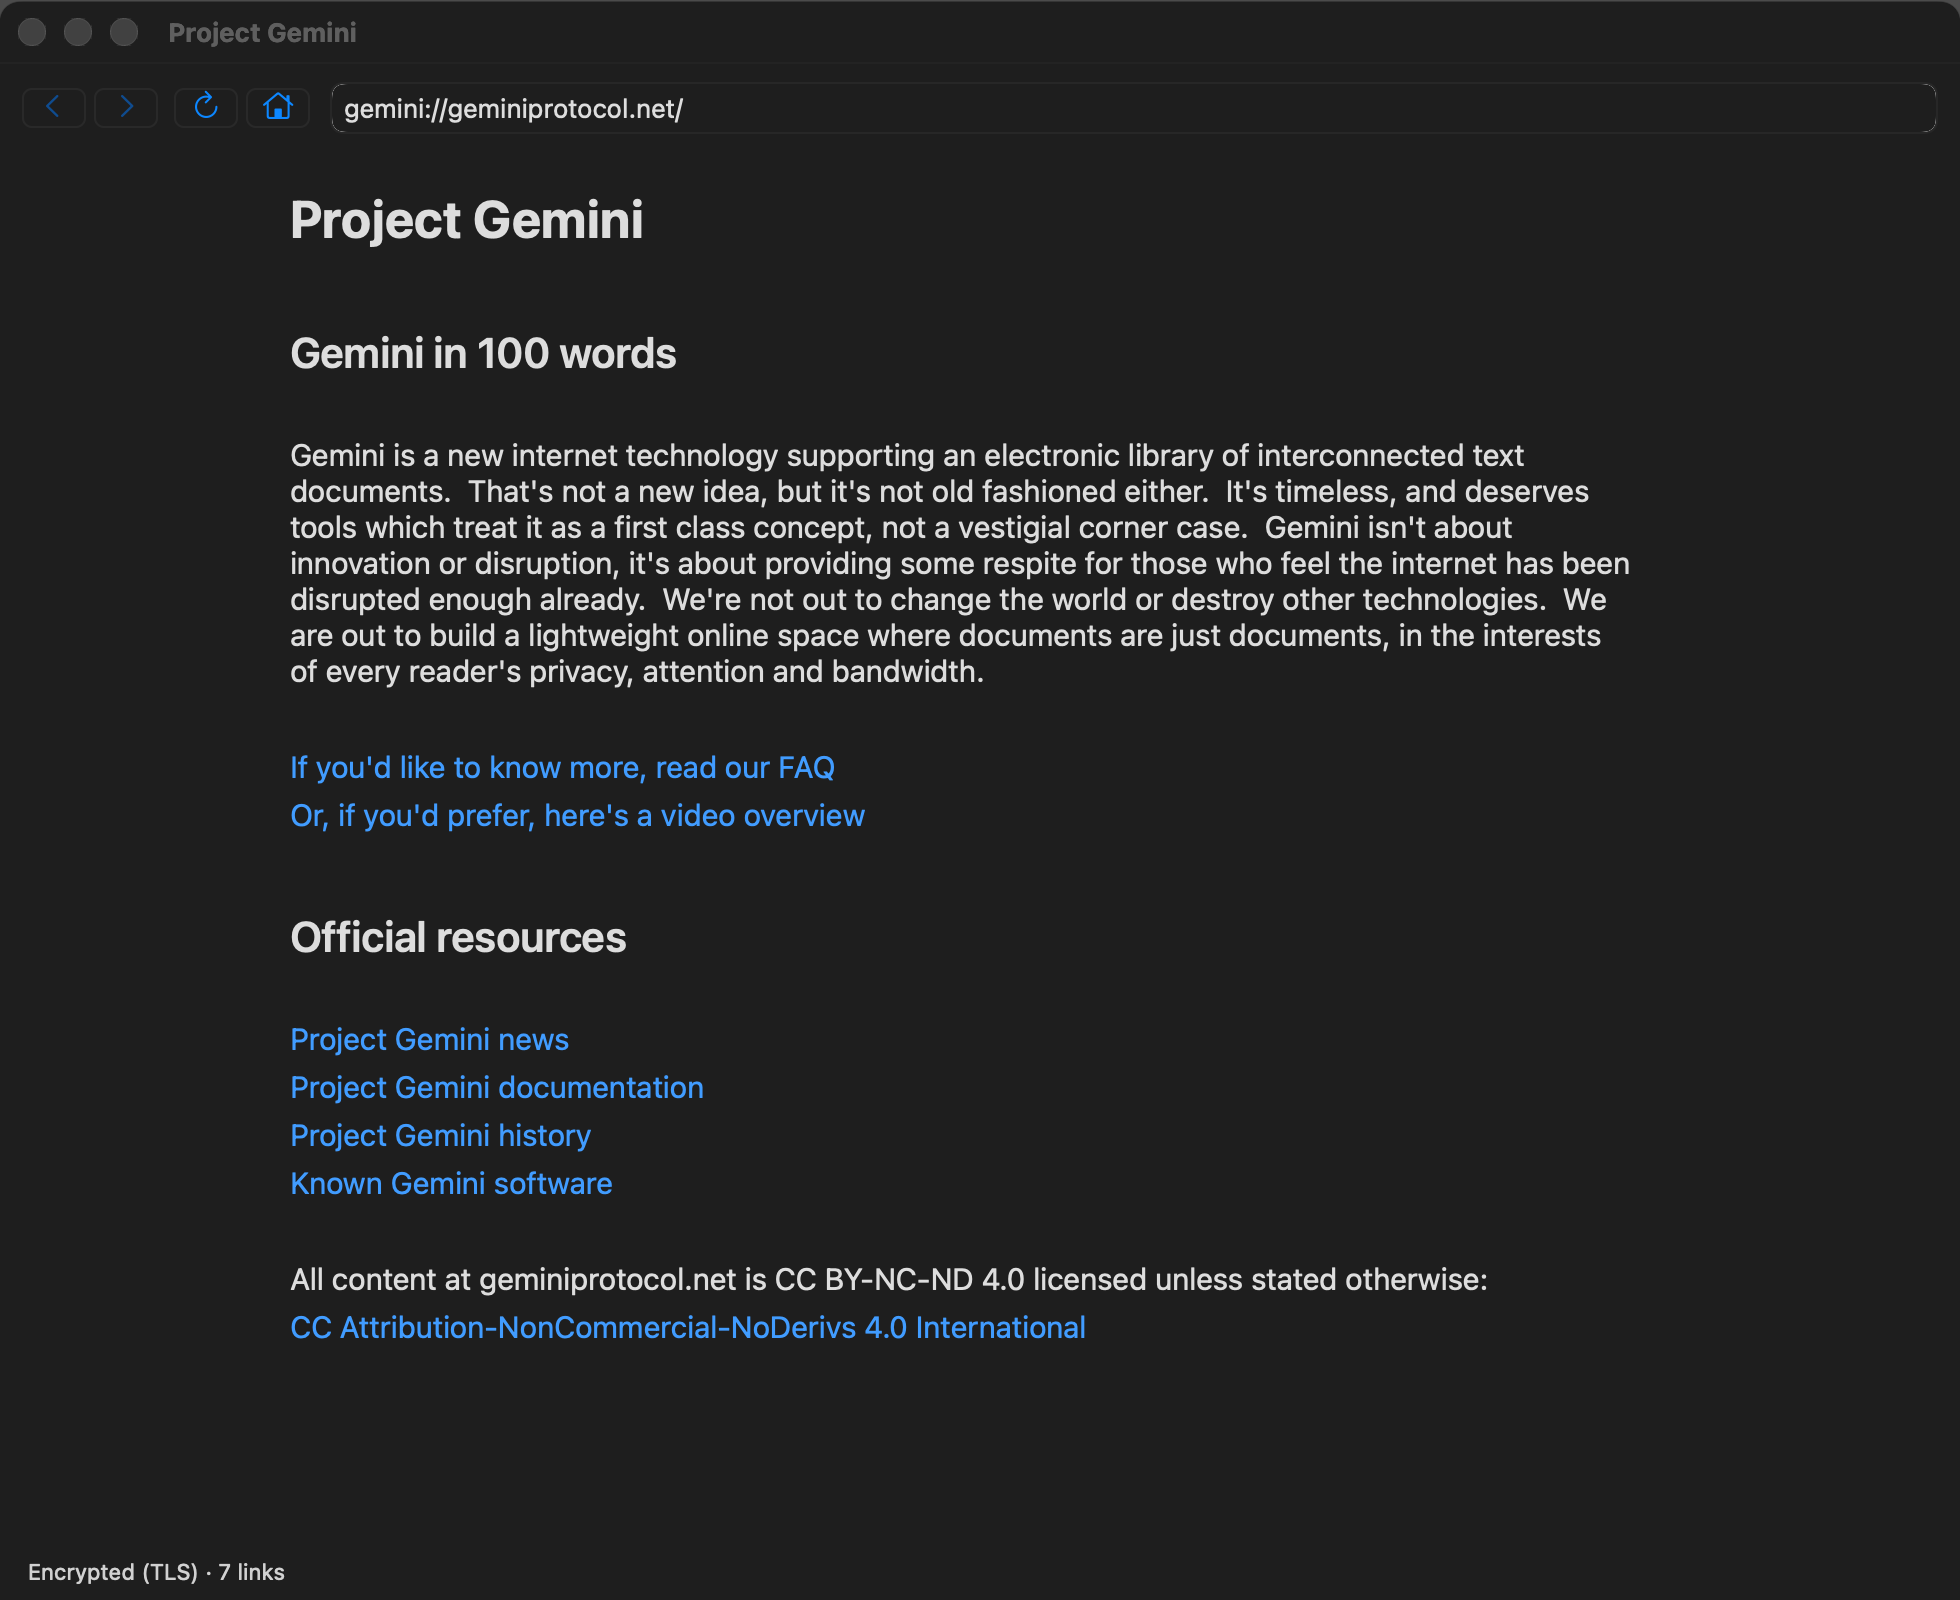
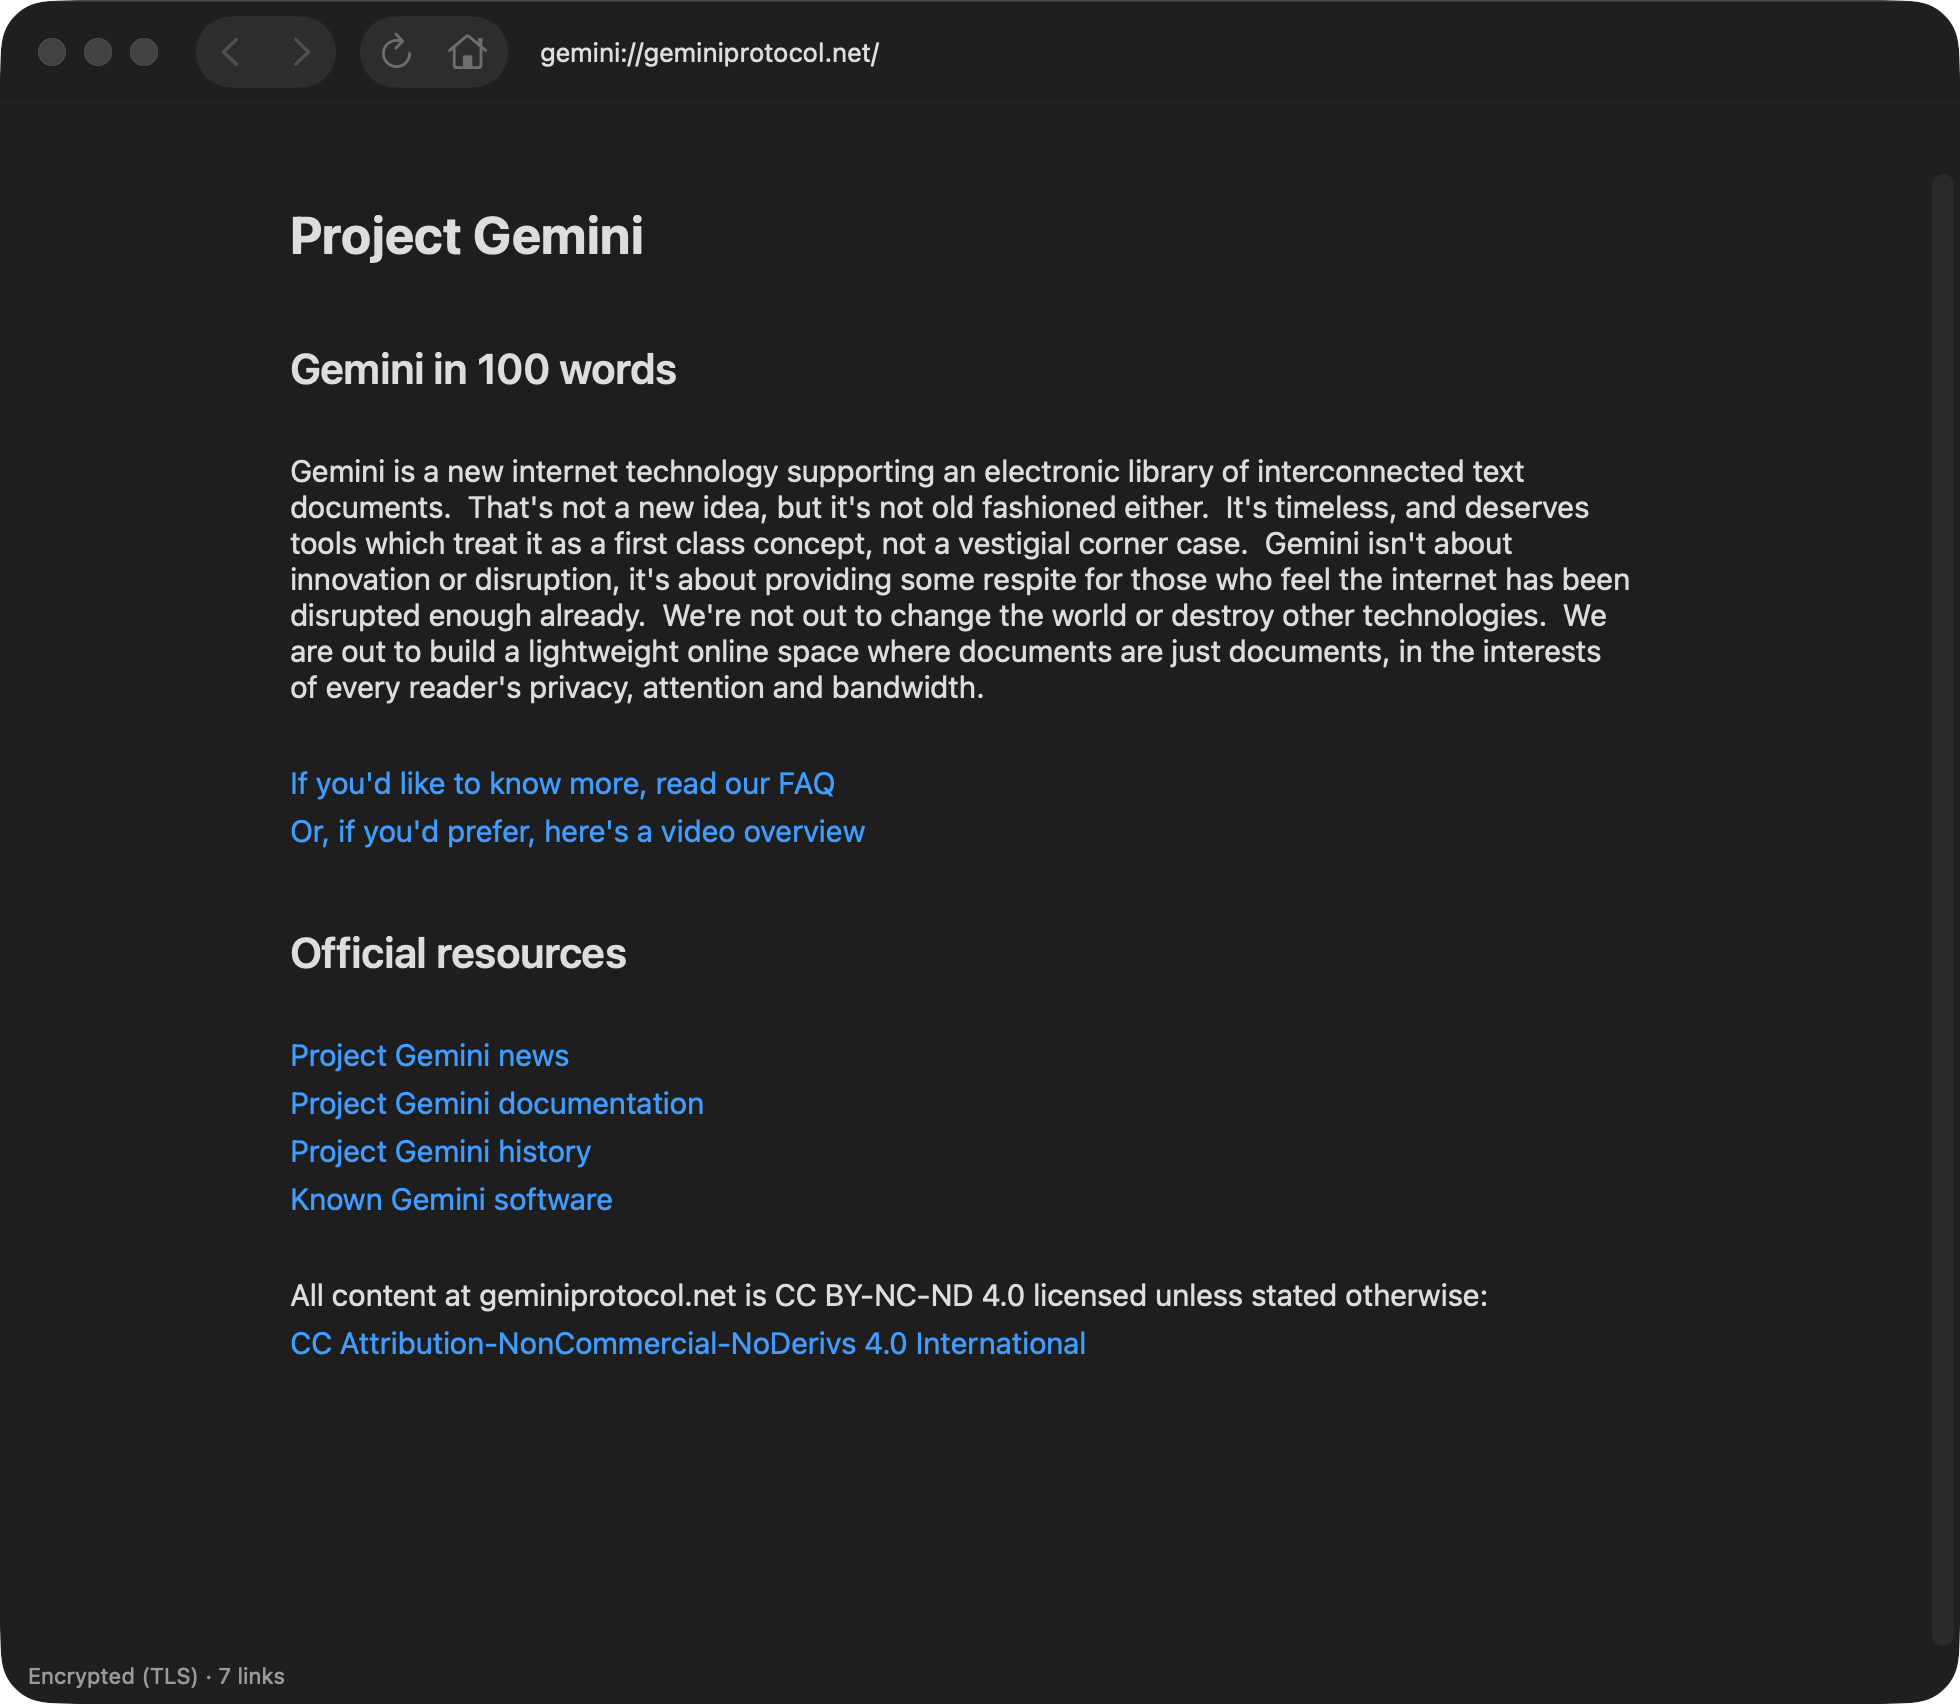
Screenshots with the toolbar, captured from the screen
The self test's snapshot captures the window with CGWindowListCreateImage --
a process may capture its own windows without Screen Recording permission --
so the toolbar and tab bar come out as they are drawn, not blank as they do
drawn offscreen.  The README's three screenshots are retaken this way.

diff --git a/README.md b/README.md
@@ -10,7 +10,7 @@ which does the protocols. It is built with SBCL,
 [asdf-macos-app](https://github.com/lispnik/asdf-macos-app) for the bundle,
 FiveAM for the tests and ocicl for the dependencies.
 
-![A Gopher menu: quux.org, its items marked DIR+ and TXT+ as Gopher+ items](doc/screenshots/gopher-menu.png)
+![Gopher showing quux.org's Gopher menu, with Project Gemini and Floodgap in two more tabs](doc/screenshots/gopher-menu.png)
 
 ## Screenshots
 
@@ -19,12 +19,13 @@ FiveAM for the tests and ocicl for the dependencies.
 | ![Project Gemini's home page](doc/screenshots/gemini-page.png) | ![Veronica-2 results for lisp](doc/screenshots/veronica-search.png) |
 | A Gemini page: headings, prose in a column of reading width, links. The status line says it came over TLS. | A Veronica-2 search for *lisp*, kept at an address with the search in it, so Back and Reload repeat it. |
 
-Above: quux.org's Gopher menu. The item types are in a column of their own,
-`+` marking Gopher+ items, whose information and views are a right-click
-away.
+Above: quux.org's Gopher menu, with two more tabs open under the toolbar.
+The item types are in a column of their own, `+` marking Gopher+ items, whose
+information and views are a right-click away.
 
 The screenshots are the browser's own: `GOPHER_BROWSER_SNAPSHOT` (see
-*Checking the bundle from a script*) has it draw its window into a PNG.
+*Checking the bundle from a script*) has it capture its window from the
+screen into a PNG.
 
 ## What it does
 

diff --git a/CLAUDE.md b/CLAUDE.md
@@ -76,10 +76,12 @@ To run one test from a REPL with that registry:
   they exist for windows never shown; `controller-back-button` and friends
   are NSToolbarItems, with `setAutovalidates: NO` so `refresh-controls`
   decides what is enabled.
-- An offscreen snapshot (`cacheDisplayInRect:`) draws toolbar items and the
-  selected tab as blank white shapes: it cannot render their materials.
-  Screenshots of those need `screencapture -l`, which needs Screen Recording
-  permission for whatever runs it.
+- The self test's snapshot captures the window from the screen with
+  `CGWindowListCreateImage`: a process may capture its own windows without
+  Screen Recording permission (`screencapture -l` from a shell may not). The
+  rectangle is passed by value with SB-ALIEN, which CFFI cannot do. If that
+  fails it draws the window offscreen (`cacheDisplayInRect:`), where toolbar
+  items and the selected tab come out as blank white shapes.
 - Tabs are macOS window tabs (`tabbingIdentifier` "GopherBrowser"); a tab is a
   window with its own controller. `current-session-groups` reads them back
   through `tabGroup` for `session.sexp`.
